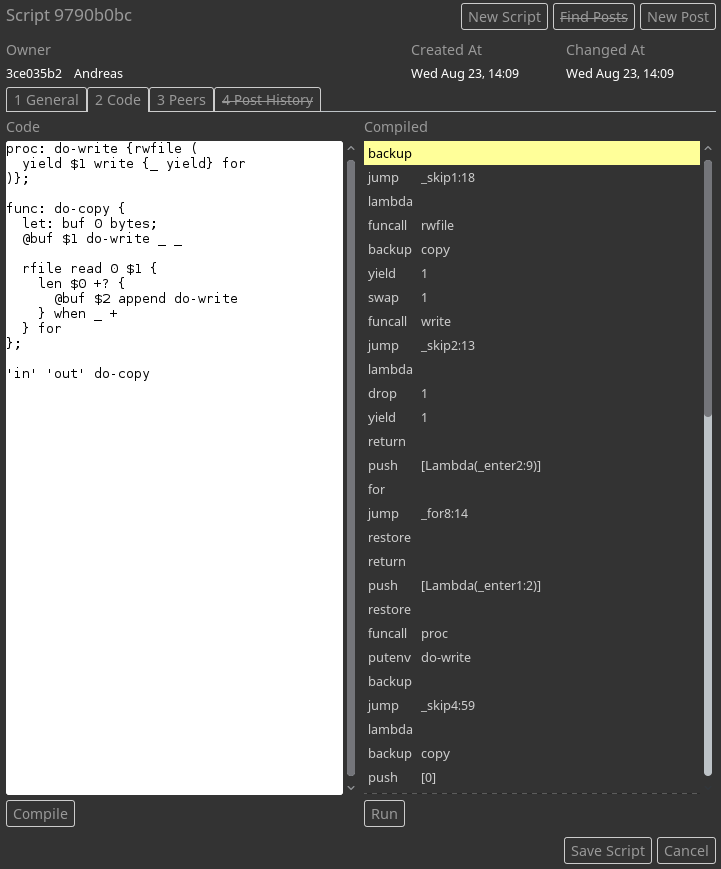
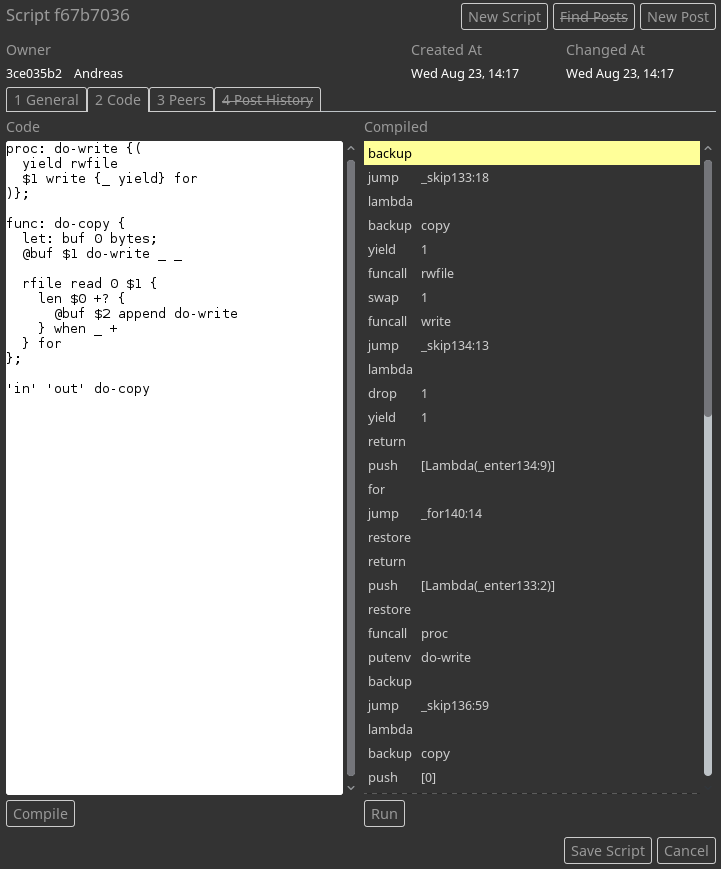
copy improvements

diff --git a/snabel.md b/snabel.md
@@ -325,19 +325,23 @@ Iter<I64>
 > 'tmp' rwfile 'foo' bytes write 0 $1 &+ for
 3
 
-> proc: do-write {rwfile (
-    yield $1 write {_ yield} for
+> proc: do-write {(
+    yield rwfile
+    $1 write {_ yield} for
   )};  
 
   func: do-copy {
     let: buf 0 bytes;
     @buf $1 do-write _ _
+
     rfile read 0 $1 {
-      len $0 +? {@buf $2 append do-write} when _ +
+      len $0 +? {
+        @buf $2 append do-write
+      } when _ +
     } for
   };
 
-  'in' 'out' do-copy
+'in' 'out' do-copy
 2313864
 ```
 
